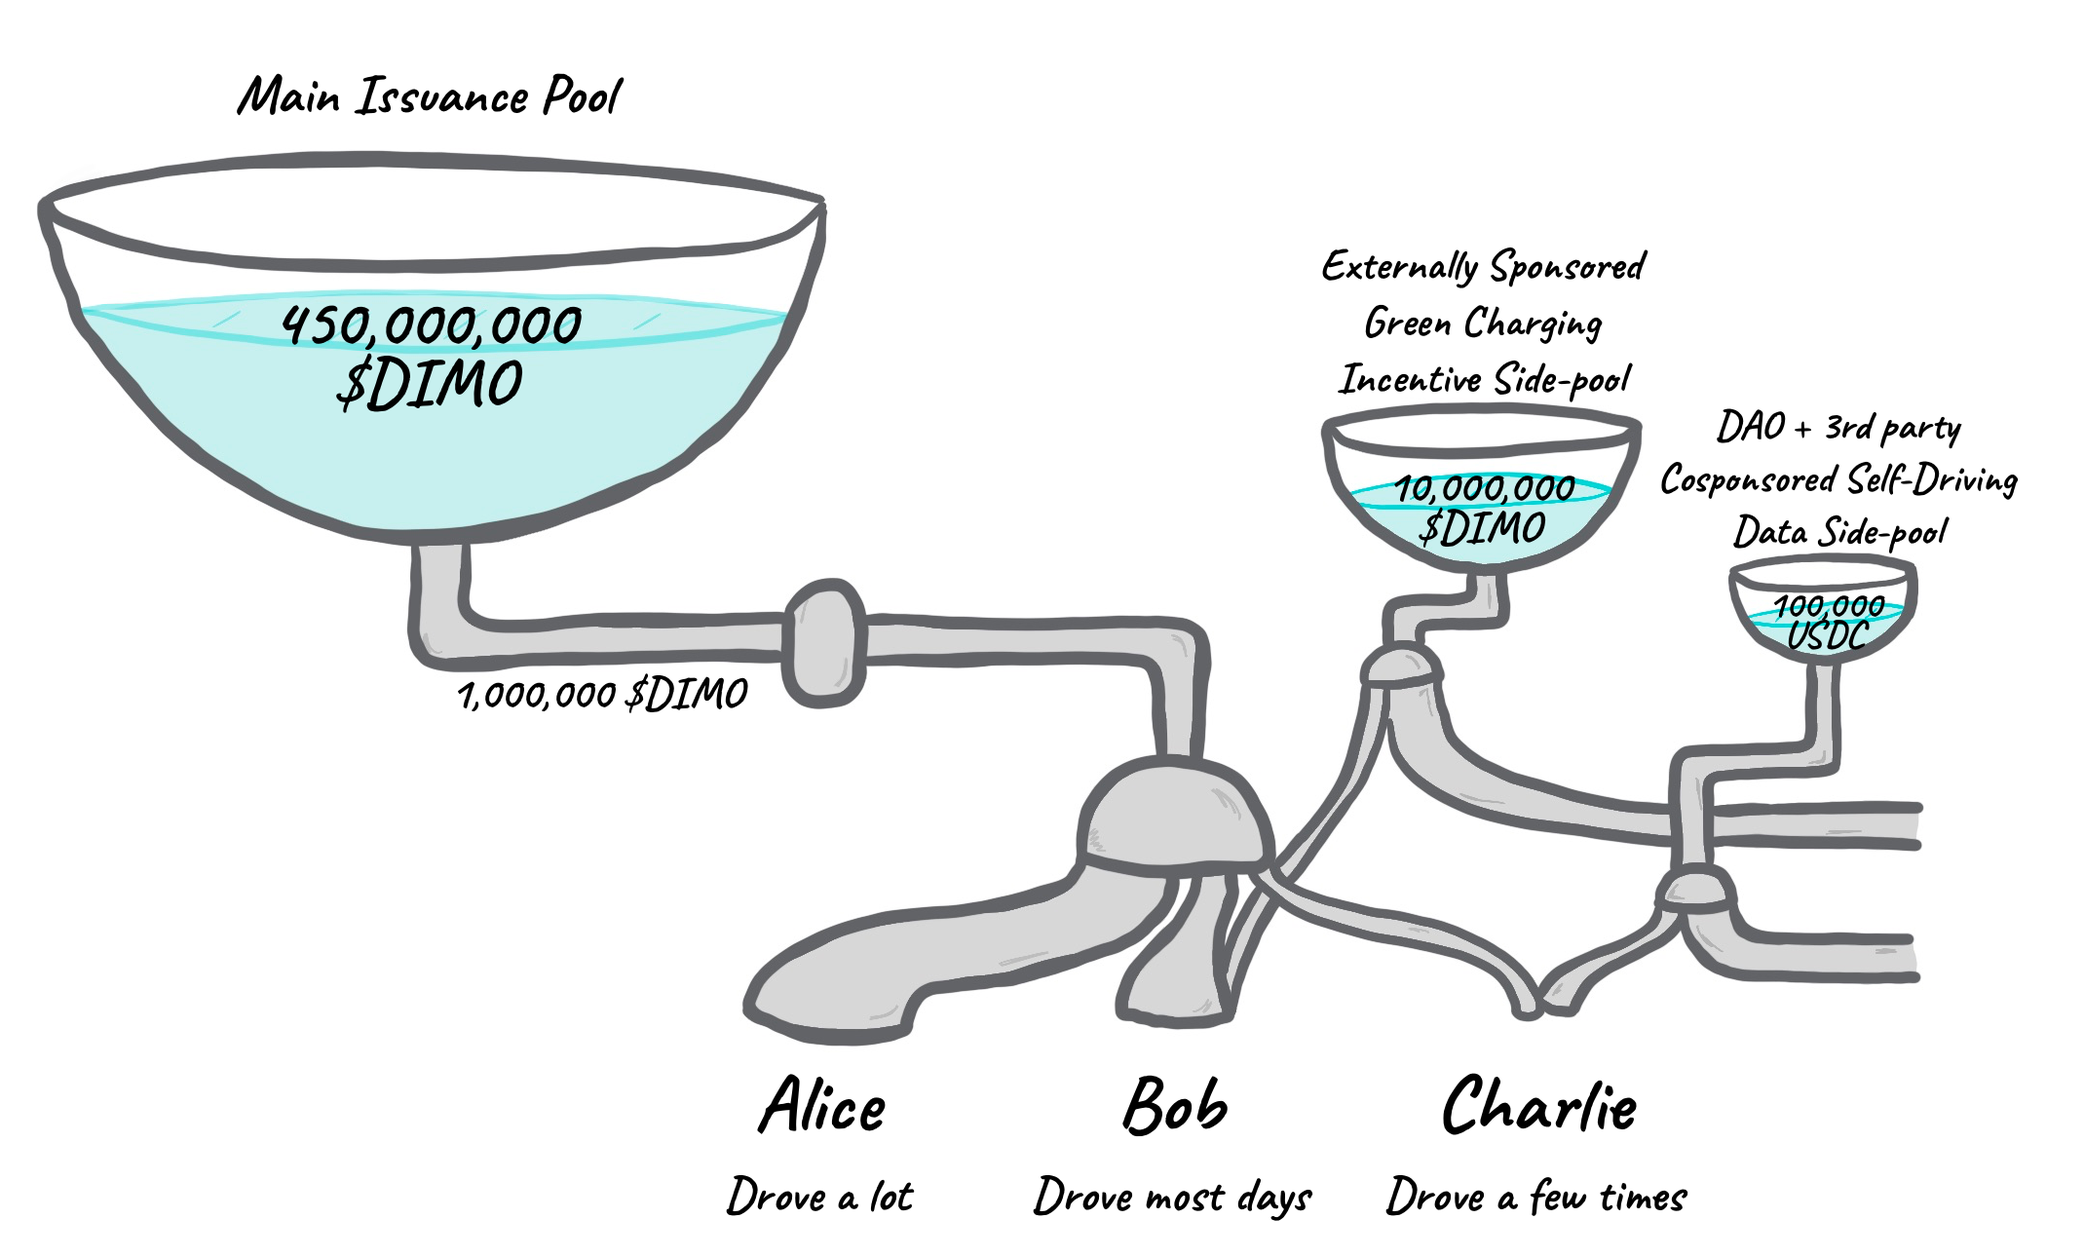
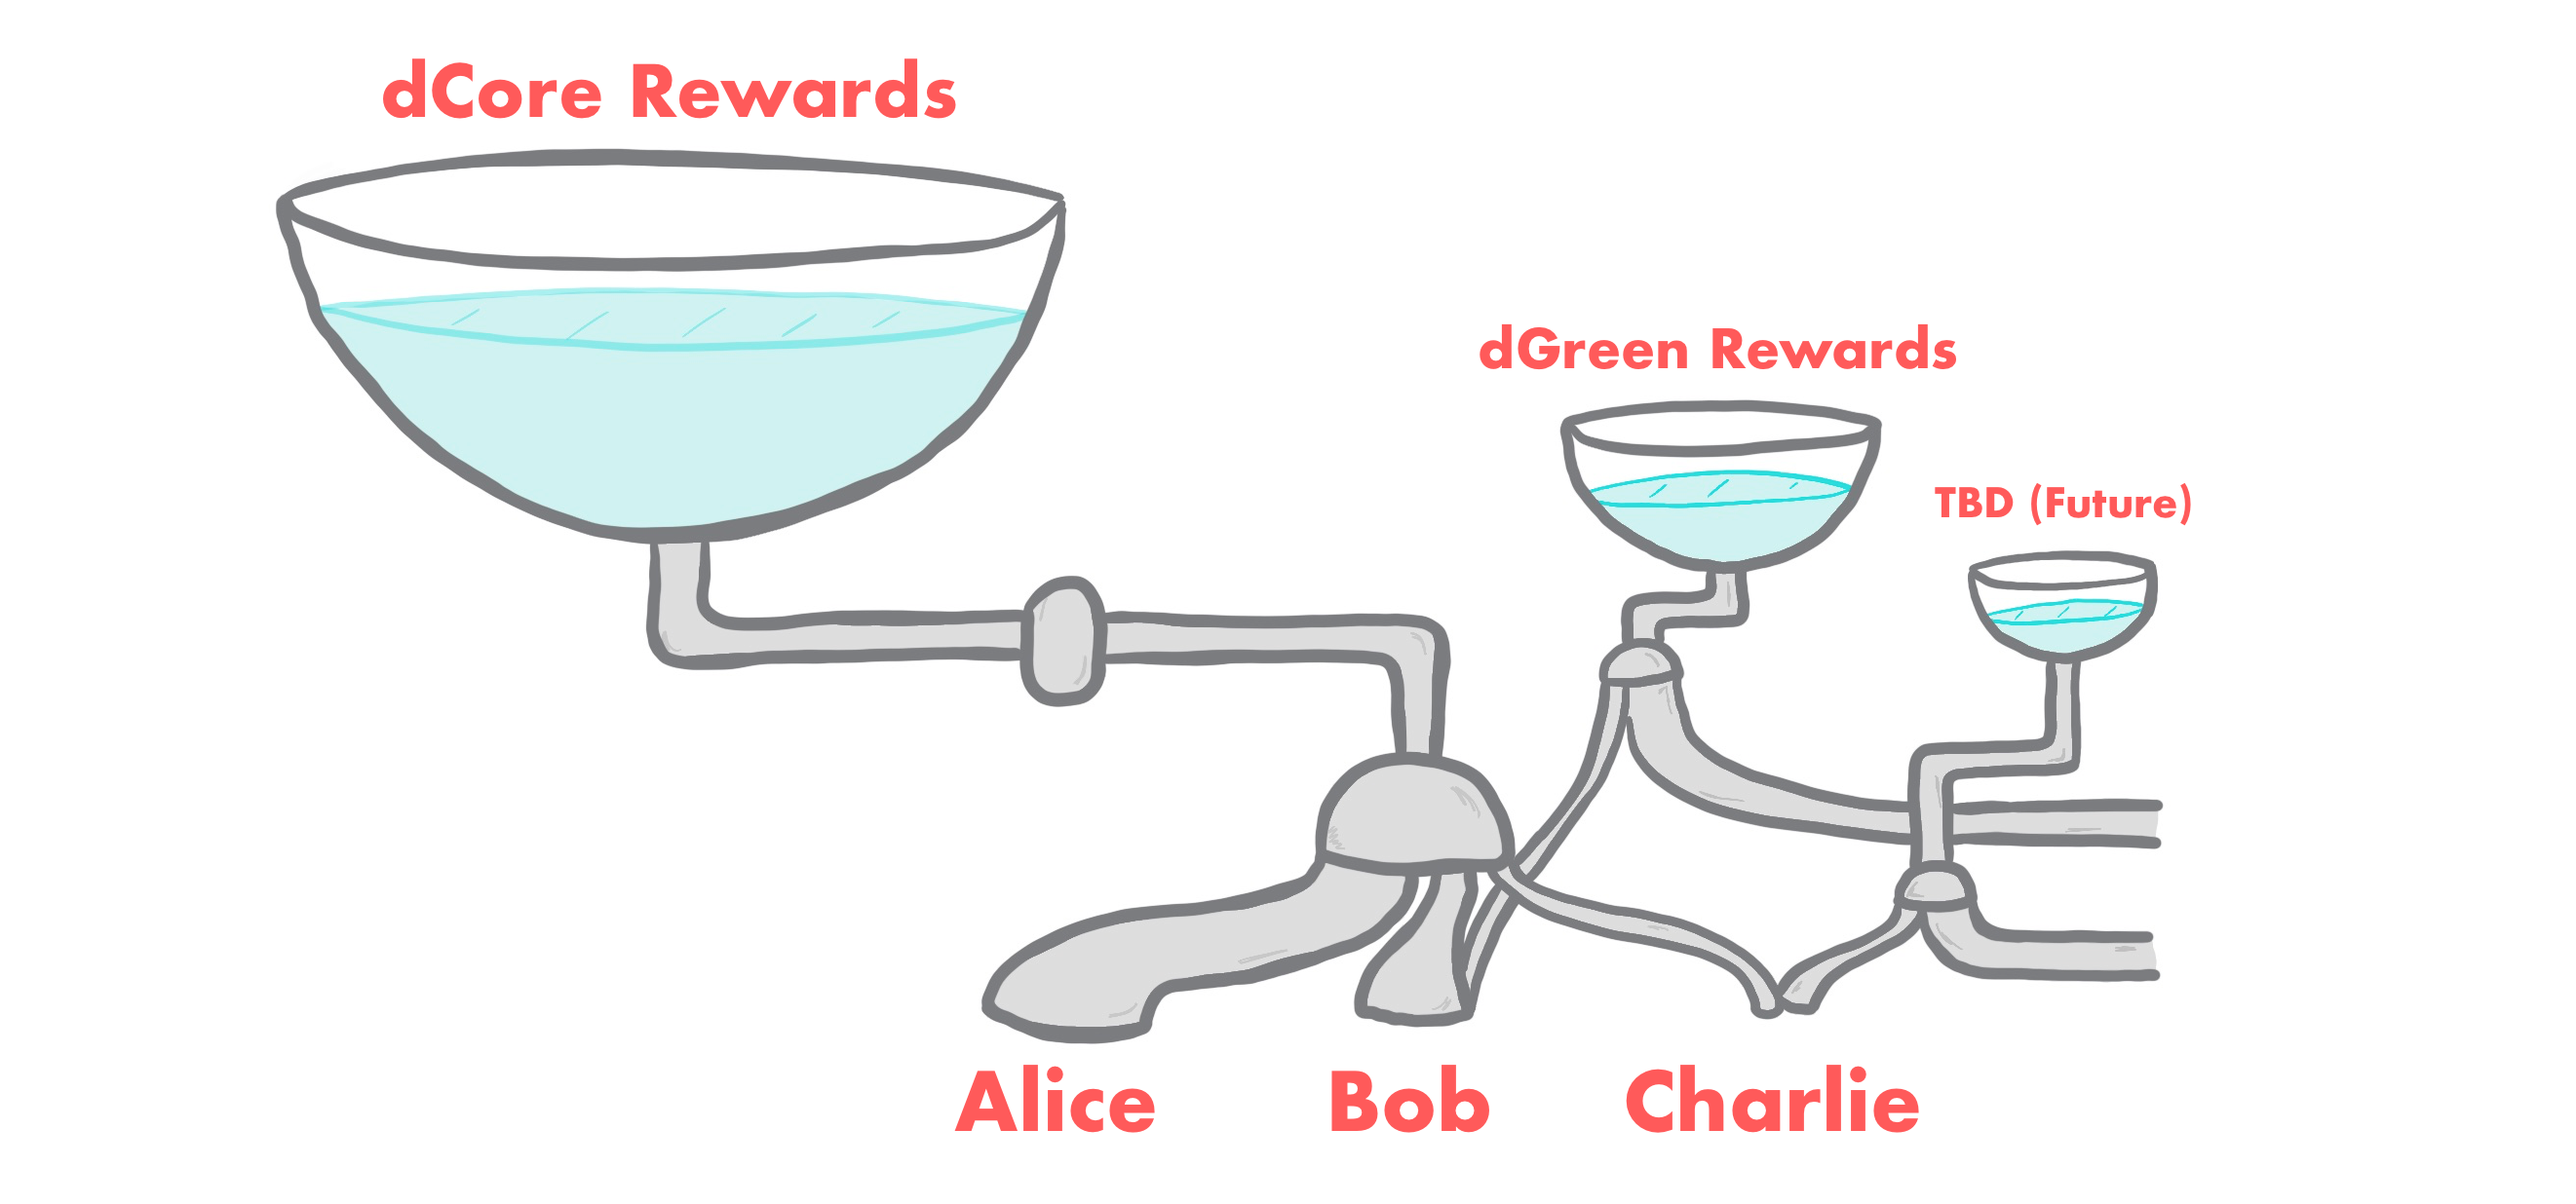
GitBook: [#117] updating pool image

Changed region(s): [[0.0, 0.0307, 0.9874, 0.9838]]

diff --git a/token/drive-to-earn.md b/token/drive-to-earn.md
@@ -22,38 +22,40 @@ A weekly issuance was chosen because driving behavior varies dramatically by tim
 
 To start, two different [dTeams](../governance/dteams.md) will oversee the distribution of baseline rewards. dCore will facilitate the distribution of half of the 1,300,000 $DIMO issued weekly. dGreen will facilitate the distribution of the other 650,000 $DIMO per a separate rewards formula aimed at incentivizing pro-social behavior.
 
-![A visualization of the various baseline rewards pools](../.gitbook/assets/diagram.png)
+![](../.gitbook/assets/diagram.png)
 
-Once the token distribution goes live on mainnnet, the weekly issuance will be allocated per the following methodology from each pool.
+Once the token distribution goes live on mainnnet, the weekly issuance will be allocated per the following methodology from each pool. $DIMO token holders can vote to alter these rewards formulas, alter the issuance amounts, and create new pools at any time by [voting](../governance/voting.md).&#x20;
 
-![](<../.gitbook/assets/Screen Shot 2022-02-21 at 12.48.24 PM.png>)
+![](<../.gitbook/assets/Screen Shot 2022-02-21 at 1.57.59 PM.png>)
 
-In year one, the dCore rewards pool will issue 650,000 $DIMO per week to users based on how many points they've earned as a percentage of all the points earned by all users. For example, if in a given week, you earn 1% of all of the points earned by all drivers, you receive 6,500 $DIMO (1% of the 650,000 weekly distribution). Drivers earn points based on how long they've maintained an active connection and the quality of their data connection.
+In year one, the dCore rewards pool will issue 650,000 $DIMO per week to users based on how many points they've earned relative to other users. In other words, if you earn 1% of the points in a given week, you also get 1% of the tokens distributed that week. Drivers earn points based on the quality and duration of their data connection.
 
 Our aim is to:
 
 * Reward and give control to those who show long-term support for DIMO;
-* Incentivize a continuous data connection, which tells a richer story on driver behavior and vehicle performance when maintained over a long-period of time;
-* Reward those with a hardware miner or Tesla's direct software connection because they provide better and more real-time vehicle data; and
-* Avoid rewarding based on distance or time traveled as not to incentivize wasteful and unnecessary driving.
+* Incentivize a continuous data connection, which tells a fuller story of driver behavior and vehicle performance when maintained over a long-period of time;
+* Reward those who provide a greater quantity and frequency of reliable data; and
+* Avoid rewarding based on distance or time traveled as not to incentivize unnecessary and wasteful driving.
 
-In this example, Alice earns 2,000 points for having been connected between 20 to 36 weeks and 7,500 points for having a [DIMO Data Miner](https://shop.dimo.zone) installed in her Mach-E which has already been [decoded](https://github.com/DIMO-Network/opendbc). Her total is 9,500 points for the week.
+In the example shown in the table above, there are 10,000 cars connected to DIMO and each car generates an average of 6,000 points that week. Therefore, a total of 60,000,000 points are generated by the users in this pool. To convert points into tokens, we divide the 60,000,000 points by the 650,000 $DIMO tokens issuance to calculate an exchange rate of approximately 92 points per 1 $DIMO token. Each week, this exchange rate will change based on the total number of points generated.
 
-If there are 10,000 other cars connected to DIMO and each car averages 6,000 points that week, Alice has earned 0.0158% of all the points generated that week (9,500 ÷ 60,000,000). Therefore, she receives approximately 103 $DIMO from this pool (0.0158% \* the weekly 650,000 dCore $DIMO issuance).
+Alice earns 2,000 points for having been connected between 20 to 36 weeks and 7,500 points for having a [DIMO Data Miner](https://shop.dimo.zone) installed in her vehicle which has already been [decoded](https://github.com/DIMO-Network/opendbc). She has earned 9,500 points in total this week in the dCore pool. Given the exchange rate of approximately 92 points per token, we can calculate that she will be sent just over 103 $DIMO from this pool (9,500 points ÷ 92 points per token).
 
-![](<../.gitbook/assets/Screen Shot 2022-02-21 at 12.48.32 PM.png>)
+![](<../.gitbook/assets/Screen Shot 2022-02-21 at 1.58.07 PM.png>)
 
-Because Alice drives an electric vehicle, she is also eligible to earn $DIMO from the dGreen rewards pool, which also issues 650,000 $DIMO per week in year one. The Mach-E is a 100% electric vehicle so she earns 5,000 points. There are only 40 other 2021 Mustang Mach-E's connected to DIMO this week so she earns another 3,000 points for the rarity of her car. In addition to encouraging eco-conscious decisions, dGreen also wants to incentivize the connection of a diverse selection of electric vehicles.
+Because Alice drives an electric vehicle, she is also eligible to earn $DIMO from the dGreen rewards pool, which issues another 650,000 $DIMO per week in year one. In the example above, there are 5,500 electric and plug-in hybrid vehicles connected to DIMO earning an average of 6,500 points each. This means there is a total of 35,750,000 points generated by electric vehicle owners and the exchange rate in this pool is 55 points per 1 $DIMO token (35,750,000 points ÷ 650,000 tokens).
 
-In the example above, there are 6,000 electric and plug-in hybrid vehicles connected to DIMO. Alice's 8,000 points represent 0.0190% of all points (8,000 ÷ 42,000,000) meaning she receives approximately 124 $DIMO (0.0190% \* the weekly 650,000 dGreen $DIMO issuance).
+The Mach-E is a 100% electric vehicle so she earns 5,000 points. Also, there are only 40 other 2021 Mustang Mach-E's connected to DIMO this week so she earns another 3,000 points for the rarity of her car. In addition to encouraging eco-conscious decisions, dGreen also wants to incentivize a broad sample of electric vehicles to connect.
 
-![](<../.gitbook/assets/Screen Shot 2022-02-21 at 12.48.44 PM.png>)
+We calculate Alice's token earnings by taking her 8,000 points and dividing them by 55 points per token, which gives us her earnings of 145 $DIMO from the dGreen rewards pool.
 
-Across both pools, Alice earned approximately 227 $DIMO in a week. If she continued to earn that amount each week, she would end the year with 11,790 tokens from her Mach-E.&#x20;
+![](<../.gitbook/assets/Screen Shot 2022-02-21 at 1.58.14 PM.png>)
 
-$DIMO token holders can vote to alter these rewards formulas, alter the issuance amounts, and create new pools. Below you can see earnings for a various hypothetical personas.
+Across both pools, Alice earned approximately 248 $DIMO in a week. If she continued to earn that amount each week, she would end the year with 12,915 tokens from her Mach-E.
 
-![](<../.gitbook/assets/Screen Shot 2022-02-21 at 12.53.06 PM.png>)
+Curious how this would play out for people besides Alice? The table below shows earnings for other hypothetical drivers.
+
+![](<../.gitbook/assets/Screen Shot 2022-02-21 at 2.03.05 PM.png>)
 
 ### Market Demand Signal
 
